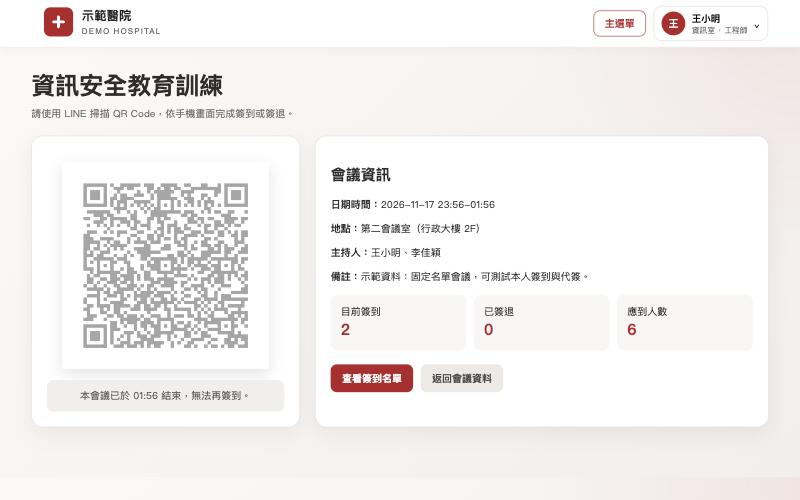
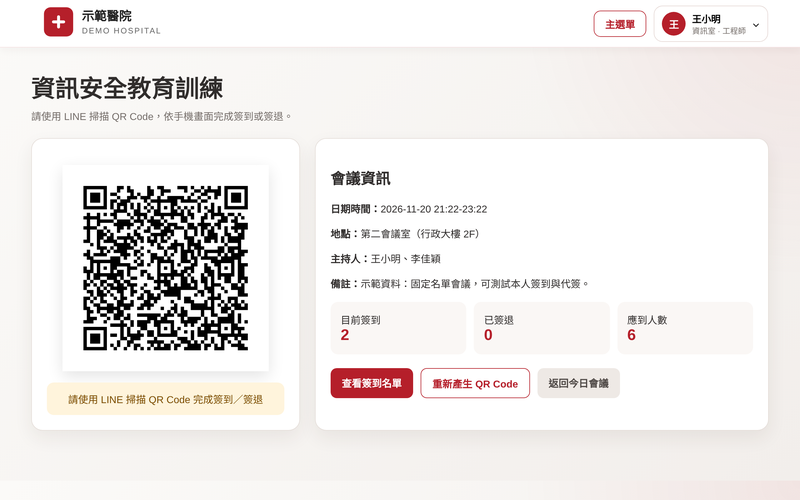
Refresh README screenshots

diff --git a/README.md b/README.md
@@ -9,7 +9,7 @@
 | ![主選單](docs/screenshots/dashboard.png) | ![我的會議](docs/screenshots/my-meetings.png) |
 | 主選單 | 我的會議 |
 | ![會議資料](docs/screenshots/meeting-detail.png) | ![會議 QR Code](docs/screenshots/qr-code.png) |
-| 會議資料與出席狀況 | 會議 QR Code（已結束時自動停用） |
+| 會議資料與出席狀況 | 會議 QR Code（外流時可重新產生，舊碼立即失效） |
 | ![簽到名單](docs/screenshots/attendance.png) | ![發起會議](docs/screenshots/create-meeting.png) |
 | 簽到名單與匯出 | 發起會議：跨單位搜尋參與人員 |
 
